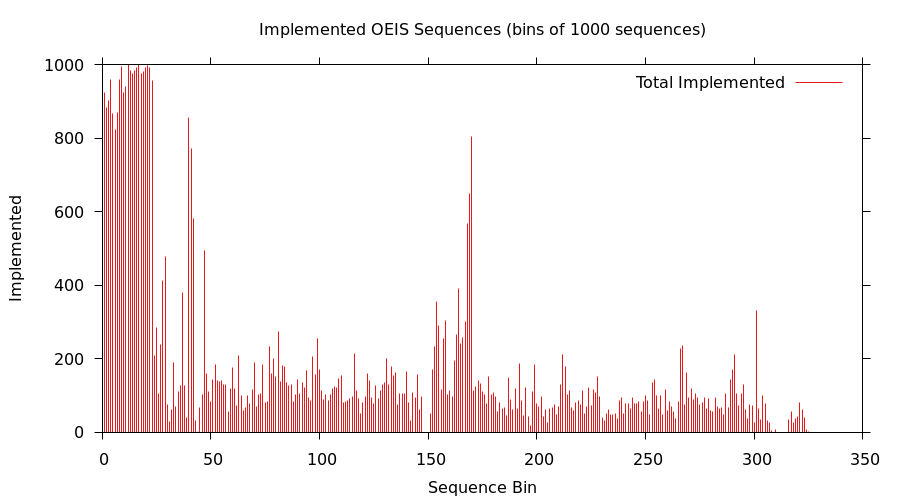
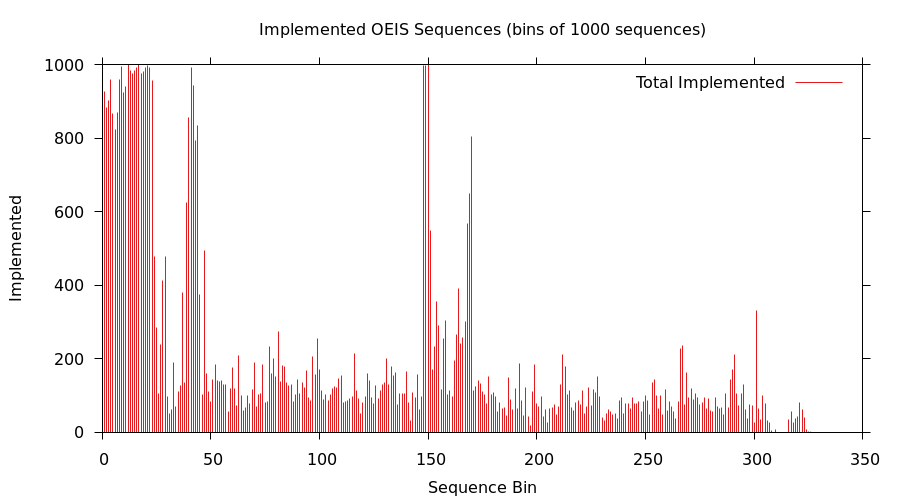
New summary

Changed region(s): [[0.4667, 0.15, 0.4978, 0.84]]

diff --git a/src/jmason/poly/PolyGen.java b/src/jmason/poly/PolyGen.java
@@ -2,7 +2,7 @@ package jmason.poly;
 
 /**
  * A PolyGen may become a Polyomino or a PolyCube.
- * It is based in a CoordSetGen which may be a set of xy coordinates or xyz coordinates
+ * It is based in a CoordSetGen which may be a set of <code>xy</code> coordinates or <code>xyz</code> coordinates
  * @author jmason
  * @param <T> type of coordinates
  * @param <U> element type

diff --git a/src/irvine/oeis/WalkCubeSequence.java b/src/irvine/oeis/WalkCubeSequence.java
@@ -76,8 +76,7 @@ public class WalkCubeSequence implements Sequence {
     if (endCode.equals("e0")) { // ending at (0,0)
       mMulti = 0;
       mMultj = 0;
-    }
-    if (endCode.equals("ey")) { // ending on vertical axis
+    } else if (endCode.equals("ey")) { // ending on vertical axis
       mMulti = 0;
     }
     mMatrix = new int[mNoSteps][dim];

diff --git a/src/jmason/poly/CoordSet2.java b/src/jmason/poly/CoordSet2.java
@@ -4,7 +4,7 @@ import java.util.ArrayList;
 import java.util.Arrays;
 
 /**
- * A set of xy coordinates
+ * A set of <code>xy</code> coordinates
  * @author jmason
  */
 public class CoordSet2 extends CoordSetGen<Square> {

diff --git a/src/jmason/poly/CoordSetGen.java b/src/jmason/poly/CoordSetGen.java
@@ -1,7 +1,7 @@
 package jmason.poly;
 
 /**
- * A generic coordinate set, either xy or xyz.
+ * A generic coordinate set, either <code>xy</code> or <code>xyz</code>.
  * @author jmason
  * @param <T> type of set
  */

diff --git a/README.md b/README.md
@@ -6,7 +6,7 @@ Encyclopedia of Integer Sequences](https://oeis.org/) (OEIS).
 
 This is likely the largest coherent collection of programs for OEIS
 sequences beyond the Maple, Mathematics, and Pari programs directly
-associated with many entries.  Currently over 58200 sequences are
+associated with many entries.  Currently over 65000 sequences are
 implemented. The following plot shows the number of sequences
 implemented (in bins of 1000):
 
